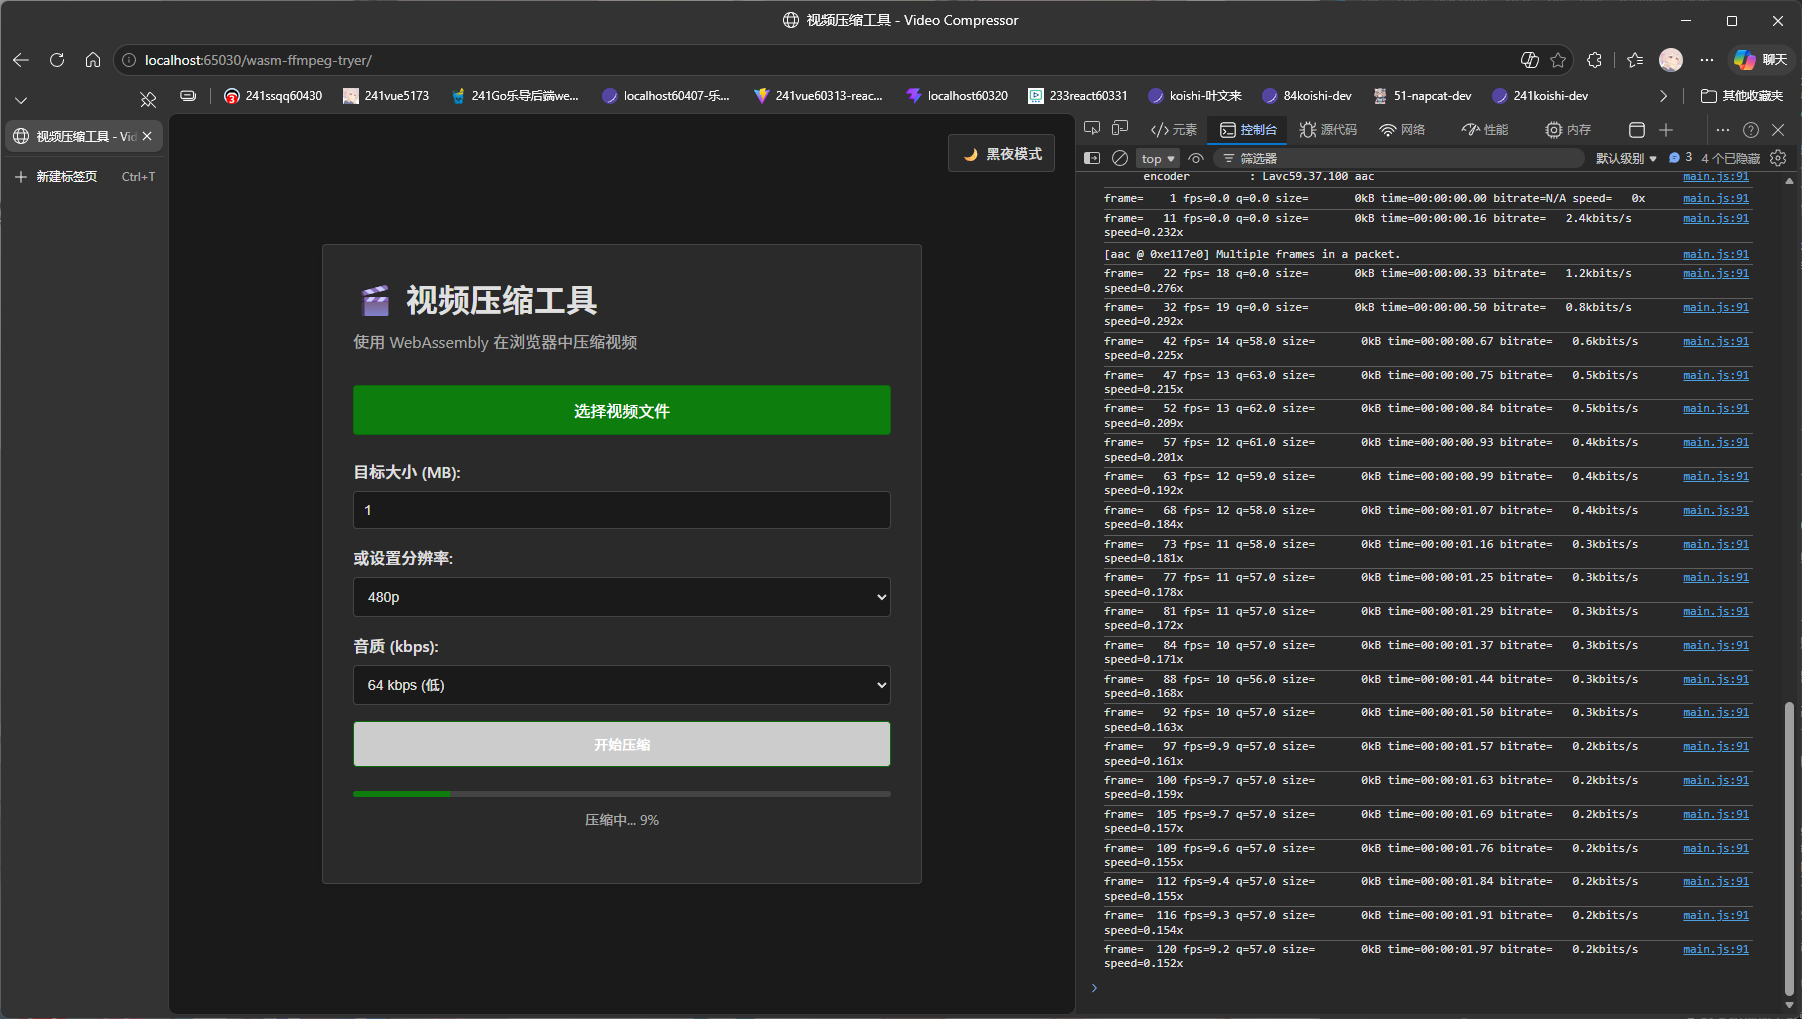
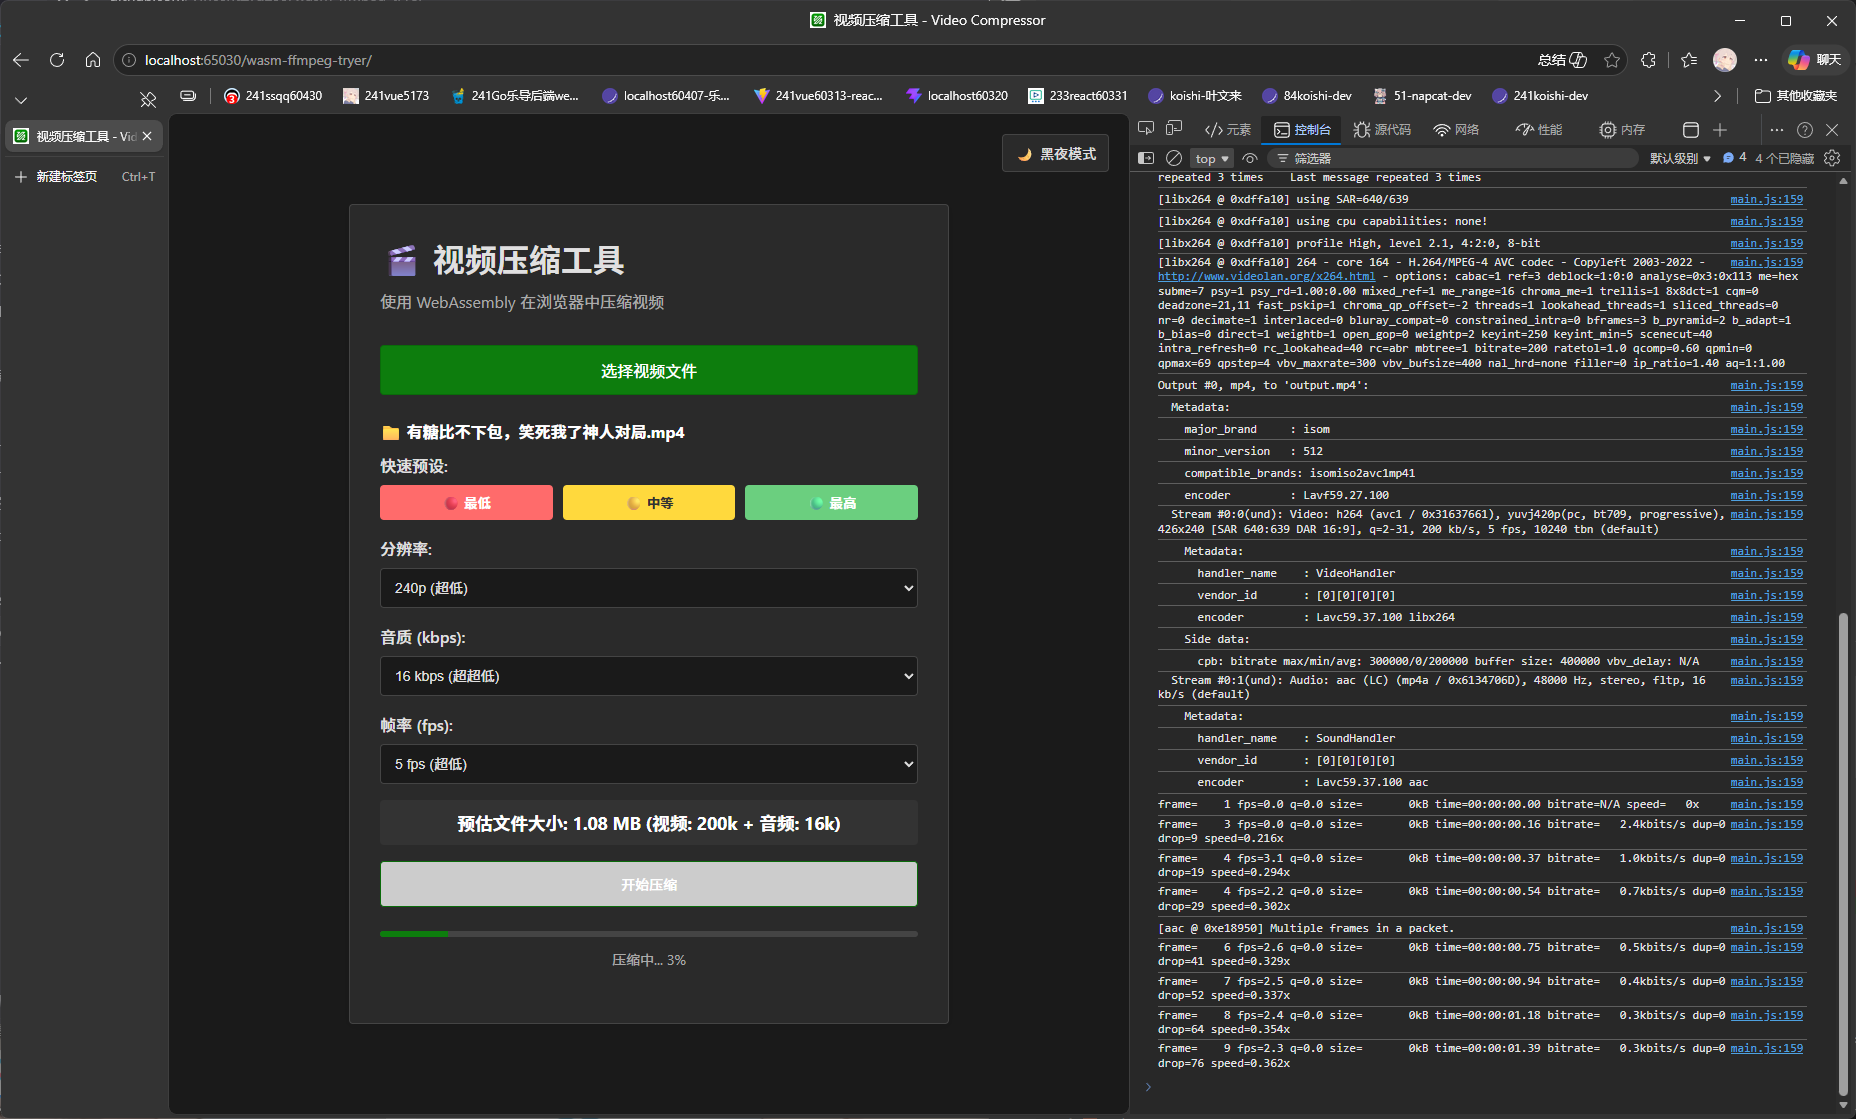
build release: v0.4.4 完善压缩过程演示与交互优化 - 优化功能特性描述，完善压缩过程演示（新增预估与实际对比截图） - 压缩时禁用视频选择按钮，防止误操作 - 更新压缩中截图，新增压缩完成对比截图 Co-Authored-By: Claude <[email redacted]> Co-Authored-By: Codex <[email redacted]>

Changed region(s): [[0.0, 0.0304, 1.0, 1.0], [0.1865, 0.213, 0.4972, 0.8822], [0.4351, 0.0, 0.5594, 0.0304]]

diff --git a/main.js b/main.js
@@ -133,6 +133,7 @@ compressBtn.addEventListener('click', async () => {
   if (!videoFile) return;
 
   compressBtn.disabled = true;
+  videoInput.disabled = true;
   progress.classList.remove('hidden');
   result.classList.add('hidden');
 
@@ -144,6 +145,7 @@ compressBtn.addEventListener('click', async () => {
     console.error(error);
   } finally {
     compressBtn.disabled = false;
+    videoInput.disabled = false;
   }
 });
 

diff --git a/README.md b/README.md
@@ -10,7 +10,7 @@
 - 📐 **分辨率调整** - 支持 240p 到 1920p，自动或手动选择
 - 🔊 **音质控制** - 16-256 kbps 多档位选择
 - 🎬 **帧率调整** - 5-60 fps 灵活配置
-- 📹 **视频预览** - 显示视频文件名和中点封面
+- 📹 **视频识别** - 显示选中视频的文件名
 - 📊 **实时预估** - 根据参数实时计算压缩后文件大小
 - ⚡ **快速预设** - 一键最低/中等/最高质量
 - ⚡ **WebAssembly** - 使用 FFmpeg.wasm 提供接近原生的性能
@@ -29,7 +29,13 @@
 
 ### 压缩过程演示
 
+**压缩中** — 浏览器控制台实时显示 FFmpeg 处理进度
+
 ![压缩中](./doc/images/preview.浏览器f12console.压缩中.png)
+
+**压缩完成** — 预估大小与实际大小对比
+
+![预估与实际对比](./doc/images/preview.压缩完成以后.预估和实际的大小对比.png)
 
 ## 💻 本地开发
 